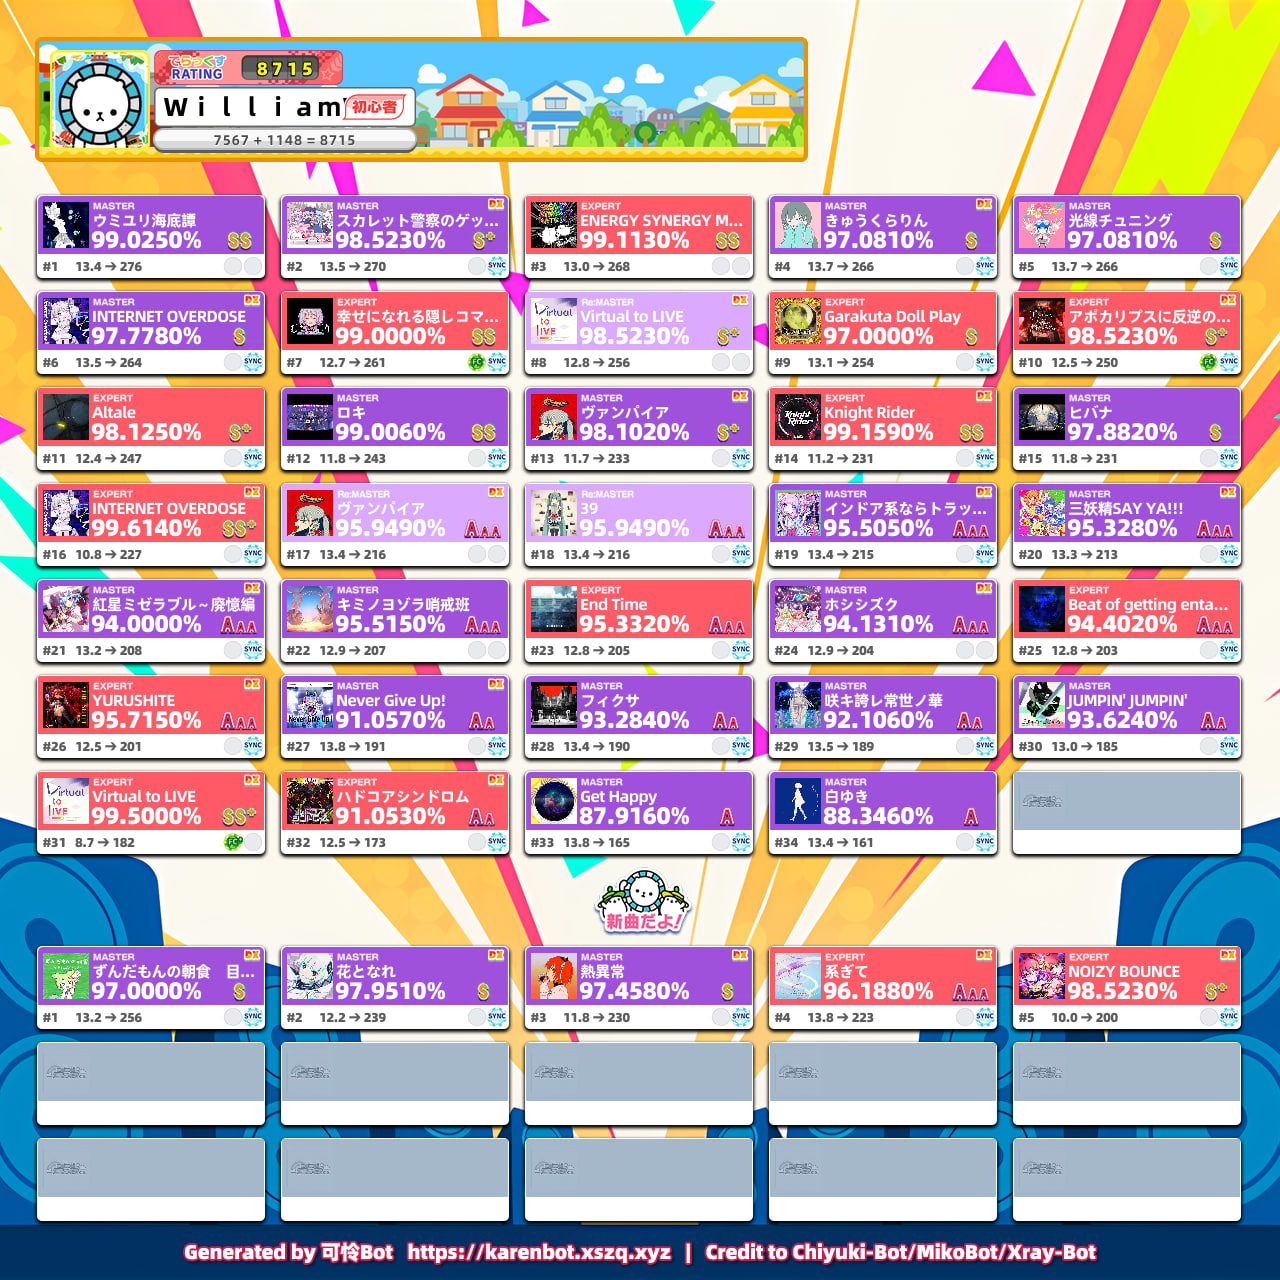
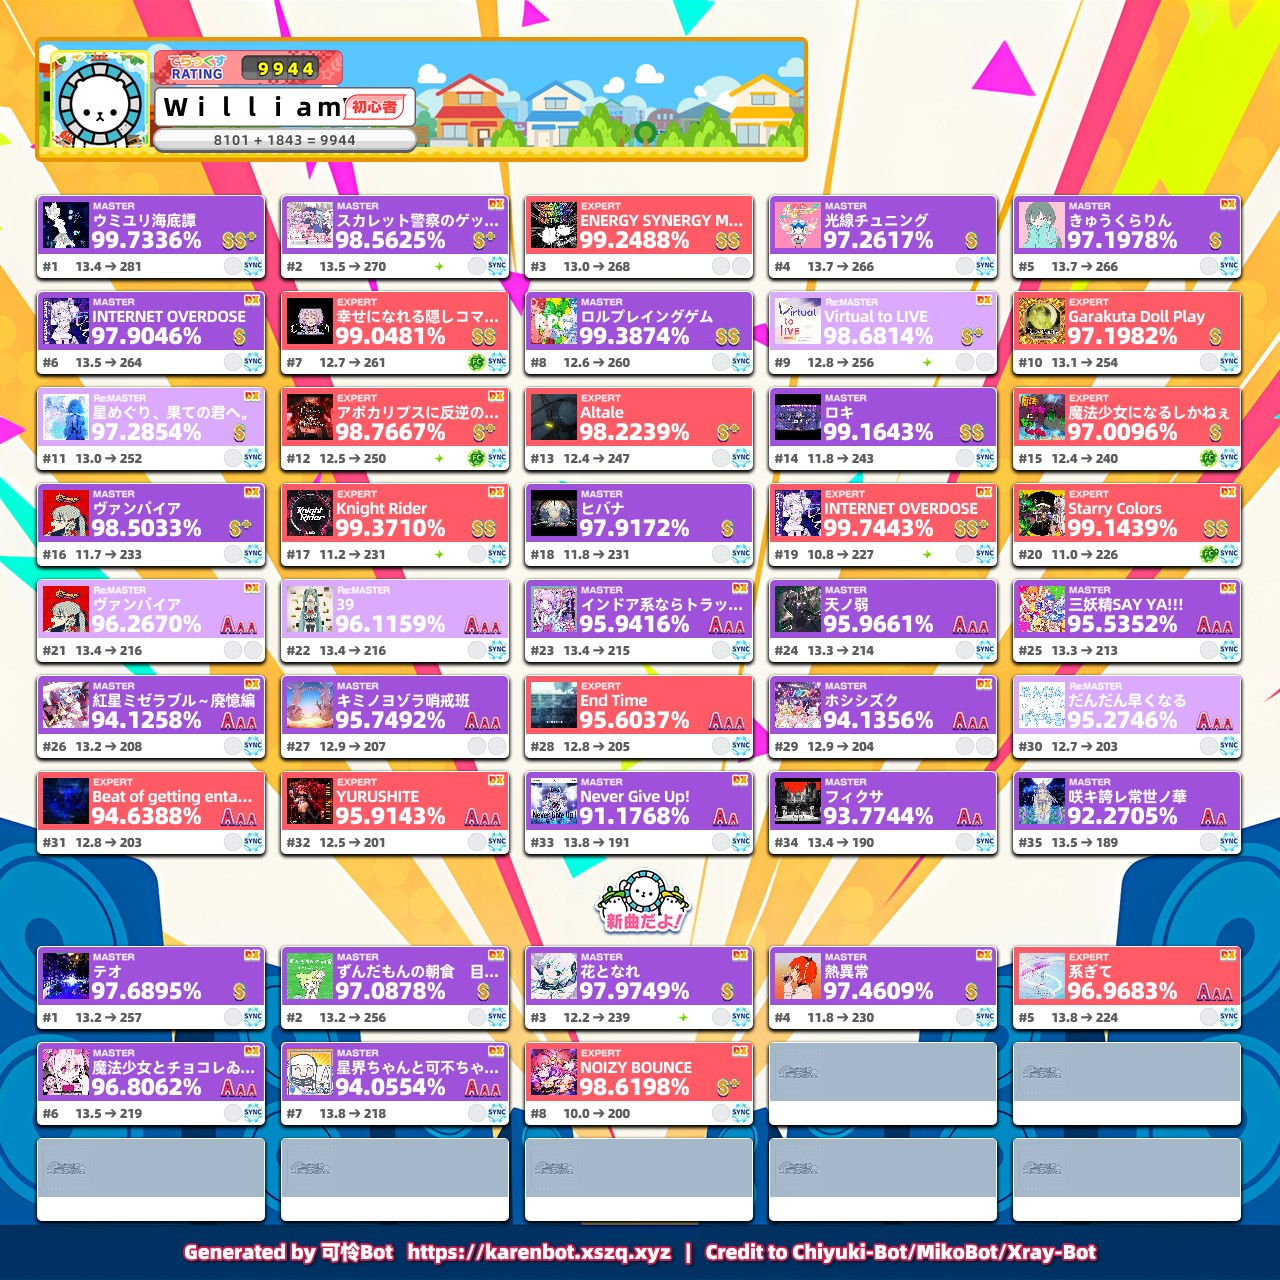
One big update bc I'm actually playing the damn game

diff --git a/history/graph.py b/history/graph.py
@@ -25,17 +25,49 @@ def draw_graph():
     plt.tight_layout()
     plt.savefig('history/rating.jpg')
     
+def draw_real_graph():
+    dates = []
+    ratings = []
+
+    with open('history/realrating.csv', 'r') as csvfile:
+        reader = csv.DictReader(csvfile)
+        for row in reader:
+            dates.append(datetime.strptime(row['date'], '%Y-%m-%d'))
+            ratings.append(int(row['rating']))
+
+    plt.figure(figsize=(10, 5))
+    plt.rcParams['axes.prop_cycle'] = plt.cycler(color=['orange'])
+    plt.plot(dates, ratings)
+    plt.xlabel('Date')
+    plt.ylabel('Rating')
+    plt.grid(True)
+    plt.xticks(rotation=45)
+    plt.tight_layout()
+    plt.savefig('history/realrating.jpg')
+    
 def main():
     scoreb50 = "scoreb50.jpg"
+    realb50 = "realb50.jpg"
     img = Image.open(scoreb50)
+    img_real = Image.open(realb50)
     cropped_img = img.crop((26, 21, 114, 51))
     cropped_img = cv2.normalize(np.array(cropped_img), None, alpha=0, beta=255, norm_type=cv2.NORM_MINMAX)
     cropped_img = cv2.threshold(cropped_img, 100, 255, cv2.THRESH_BINARY)[1]
     cropped_img = cv2.GaussianBlur(cropped_img, (1, 1), 0)
     cropped_img = cv2.bitwise_not(cropped_img)
     cropped_img = cv2.copyMakeBorder(cropped_img, 100, 100, 100, 100, cv2.BORDER_CONSTANT, value=[255, 255, 255])
-    plt.imshow(cropped_img, cmap='gray')
-    text = pytesseract.image_to_string(cropped_img).strip().replace('\n', '')
+    cropped_img_real = img_real.crop((245, 59, 314, 78))
+    cropped_img_real = cv2.normalize(np.array(cropped_img_real), None, alpha=0, beta=255, norm_type=cv2.NORM_MINMAX)
+    cropped_img_real = cv2.threshold(cropped_img_real, 100, 255, cv2.THRESH_BINARY)[1]
+    cropped_img_real = cv2.GaussianBlur(cropped_img_real, (1, 1), 0)
+    hsv_img_real = cv2.cvtColor(np.array(cropped_img_real), cv2.COLOR_RGB2HSV)
+    mask = cv2.inRange(hsv_img_real, (20, 100, 100), (30, 255, 255))
+    mask_inv = cv2.bitwise_not(mask)
+    cropped_img_real[mask == 255] = [0, 0, 0]
+    cropped_img_real[mask_inv == 255] = [255, 255, 255]
+    cropped_img_real = cv2.copyMakeBorder(cropped_img_real, 100, 100, 100, 100, cv2.BORDER_CONSTANT, value=[255, 255, 255])
+    current_rating = pytesseract.image_to_string(cropped_img).strip().replace('\n', '')
+    current_real_rating = pytesseract.image_to_string(cropped_img_real).strip().replace('\n', '')
     time = datetime.now().strftime('%Y-%m-%d')
     with open('history/rating.csv', 'r') as csvfile:
         # Read the last line of the file and get the rating
@@ -43,14 +75,28 @@ def main():
         for row in reader:
             pass
         last_rating = row[1]
+    with open('history/realrating.csv', 'r') as realcsvfile:
+        # Read the last line of the file and get the real rating
+        reader = csv.reader(realcsvfile)
+        for row in reader:
+            pass
+        last_real_rating = row[1]
     print(f"Last rating: {last_rating}")
-    print(f"Current rating: {text}")
-    print(f"Diff: {int(text) - int(last_rating)}")
+    print(f"Current rating: {current_rating}")
+    print(f"Diff: {int(current_rating) - int(last_rating)}")
+    print(f"Real rating: {last_real_rating}")
+    print(f"Current real rating: {current_real_rating}")
+    print(f"Diff: {int(current_real_rating) - int(last_real_rating)}")
     with open('history/rating.csv', 'a', newline='') as csvfile:
         writer = csv.writer(csvfile)
         writer.writerow([time, last_rating])
-        writer.writerow([time, text])
+        writer.writerow([time, current_rating])
+    with open('history/realrating.csv', 'a', newline='') as realcsvfile:
+        writer = csv.writer(realcsvfile)
+        writer.writerow([time, last_real_rating])
+        writer.writerow([time, current_real_rating])
 
 if __name__ == "__main__":
     main()
     draw_graph()
+    draw_real_graph()

diff --git a/README.md b/README.md
@@ -2,19 +2,31 @@
 
 **WARNING: ALL CHARTS ARE FROM THE INTERNET AND NOT RELATED TO MAIMAI (SEGA).**
 
-Here keeps all my maimai scores (unofficial) from AstroDX. See the progress here.
+Here keeps all my maimai scores (unofficial) from AstroDX and official score from maimai (CN ver.). See the progress here.
 
 Use `main.py` to add new scores.
 
-## Current Best 50
+## AstroDX
+
+### Current Best 50
 
 > Using maimai BUDDiES PLUS (Generic)
 
-![scoreb50.jpg](https://github.com/WiIIiamWei/maimai-scores/blob/master/scoreb50.jpg)
+![scoreb50.jpg](scoreb50.jpg)
 
-## Rating Graph
+### Rating Graph
 
-![rating.jpg](https://github.com/WiIIiamWei/maimai-scores/blob/master/history/rating.jpg)
+![rating.jpg](history/rating.jpg)
+
+## maimai (CN ver.)
+
+### Current Best 50
+
+![realb50.jpg](realb50.jpg)
+
+### Rating Graph
+
+![realrating.jpg](history/realrating.jpg)
 
 ## References
 
@@ -23,3 +35,7 @@ Use `main.py` to add new scores.
 [DXRating.net](https://dxrating.net/rating)
 
 [maimai | arcade-songs](https://arcade-songs.zetaraku.dev/maimai/)
+
+[舞萌 DX 查分器](https://www.diving-fish.com/maimaidx/prober/)
+
+[可怜 Bot](https://karenbot.xszq.xyz)
